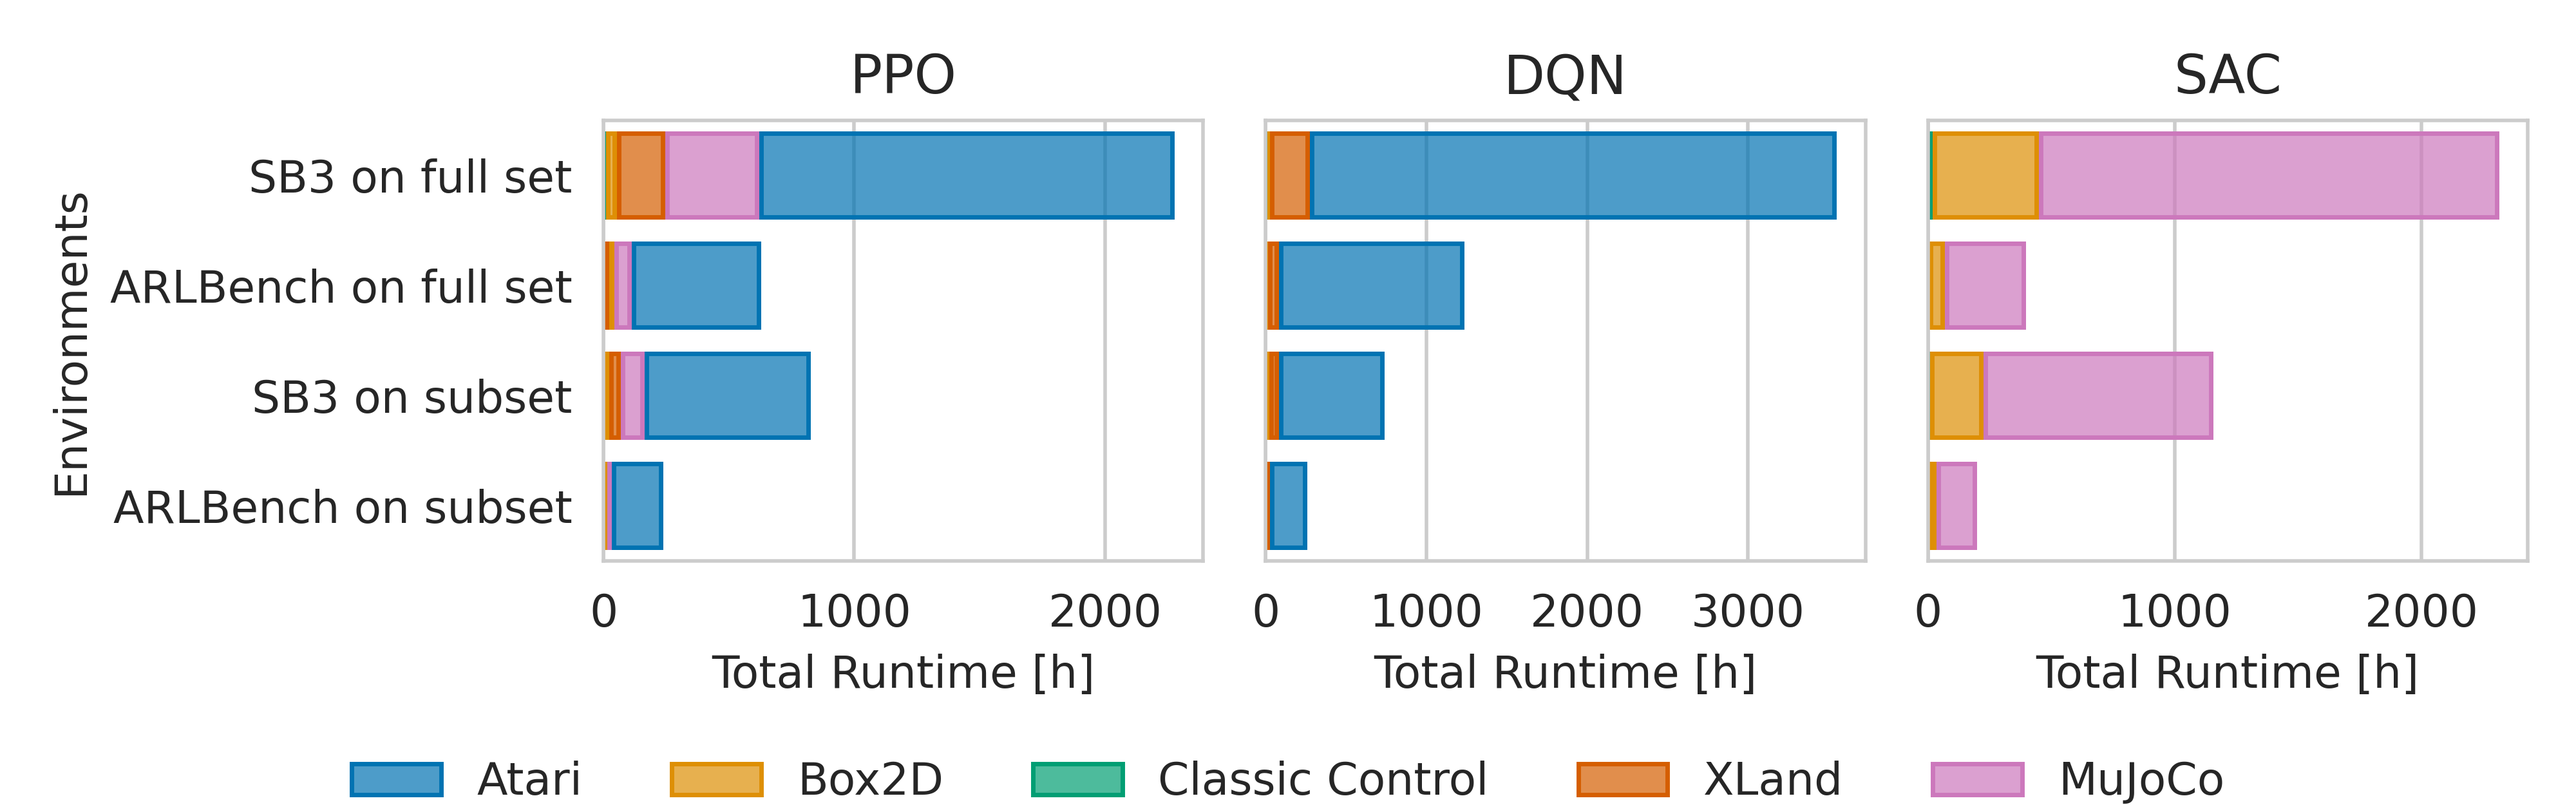
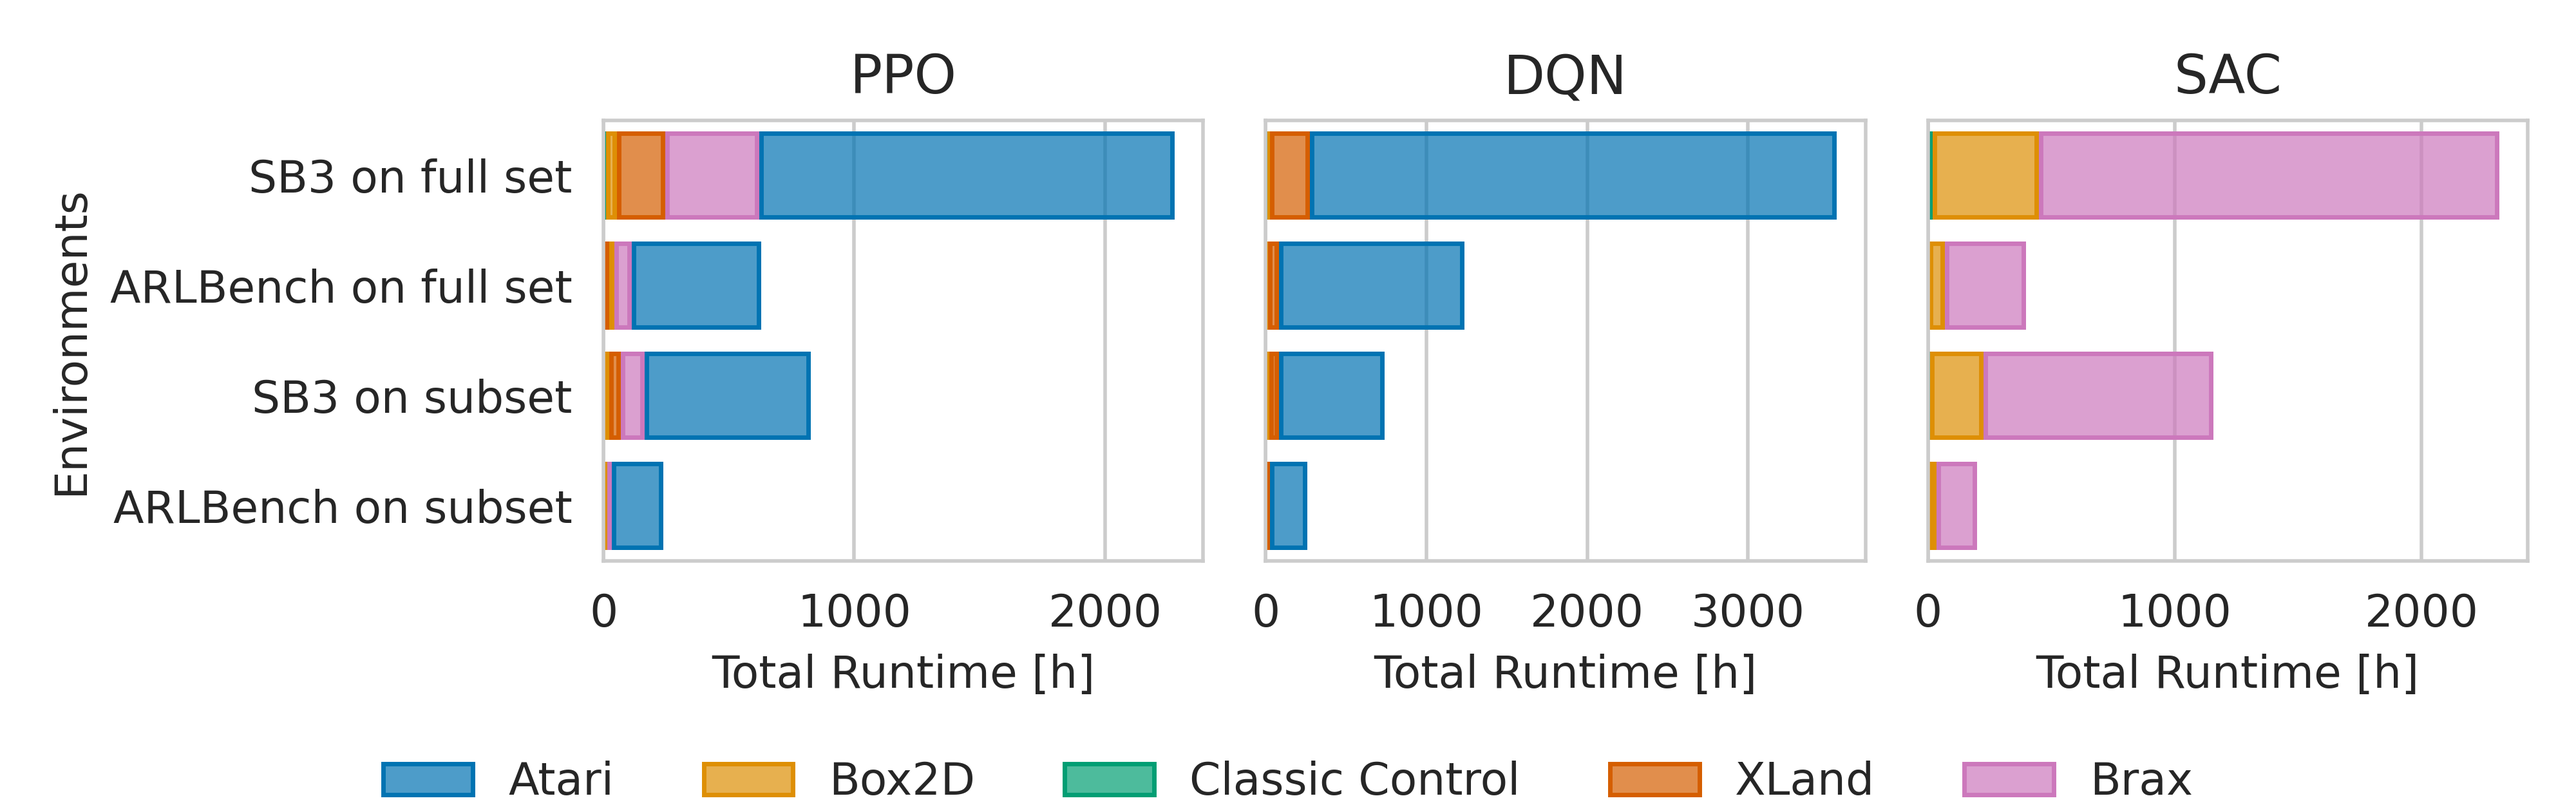
changed naming in runtime plots from mujoco to brax

Changed region(s): [[0.125, 0.936, 0.7188, 0.9984], [0.75, 0.936, 0.875, 0.9984]]

diff --git a/runtime_comparisons/plot_runtime_comparisons.py b/runtime_comparisons/plot_runtime_comparisons.py
@@ -27,7 +27,7 @@ N_OPT_RUNS = 4 * 3 * 32 * 4     # 4 optimizers * 3 optimizer seeds * 32 * 3 RL s
 
 ENV_CATEGORIES = {
     "ppo": [
-        "Atari", "Atari", "Atari", "Atari", "Atari", "Box2D", "Box2D", "MuJoCo", "MuJoCo", "MuJoCo", "MuJoCo",
+        "Atari", "Atari", "Atari", "Atari", "Atari", "Box2D", "Box2D", "Brax", "Brax", "Brax", "Brax",
         "Classic Control", "Classic Control", "Classic Control", "Classic Control", "Classic Control",
         "XLand", "XLand", "XLand", "XLand"
         ],
@@ -36,20 +36,20 @@ ENV_CATEGORIES = {
         "XLand", "XLand", "XLand", "XLand"
     ],
     "sac": [
-        "Box2D", "Box2D", "MuJoCo", "MuJoCo", "MuJoCo", "MuJoCo",
+        "Box2D", "Box2D", "Brax", "Brax", "Brax", "Brax",
         "Classic Control", "Classic Control"
         ],
 }
 
 SUBSET_CATEGORIES = {
-    "ppo": ["Box2D", "MuJoCo", "Atari", "Atari", "XLand"],
+    "ppo": ["Box2D", "Brax", "Atari", "Atari", "XLand"],
     "dqn": ["Classic Control", "Box2D", "Atari", "XLand"],
-    "sac": ["Box2D", "MuJoCo", "MuJoCo", "Classic Control"],
+    "sac": ["Box2D", "Brax", "Brax", "Classic Control"],
 }
 
 CATEGORY = {
     "ant": "brax",
-    "Ant-v4": "MuJoCo",
+    "Ant-v4": "Brax",
     "CartPole-v1": "Classic Control",
     "LunarLander-v2": "Box2D",
     "LunarLanderContinuous-v2": "Box2D",
@@ -204,7 +204,7 @@ def plot_runtime_comparisons():
     fig.subplots_adjust(top=0.85)
 
     set_order = ["SB3 on full set", "ARLBench on full set", "SB3 on subset", "ARLBench on subset"]
-    hue_order = ["Atari", "Box2D", "Classic Control", "XLand", "MuJoCo"]
+    hue_order = ["Atari", "Box2D", "Classic Control", "XLand", "Brax"]
 
     all_combinations = pd.MultiIndex.from_product([all_runtimes["algorithm"].unique(), all_runtimes["set"].unique(), hue_order], names=["algorithm", "set", "category"])
     all_runtimes = all_runtimes.set_index(["algorithm", "set", "category"]).reindex(all_combinations).reset_index()
